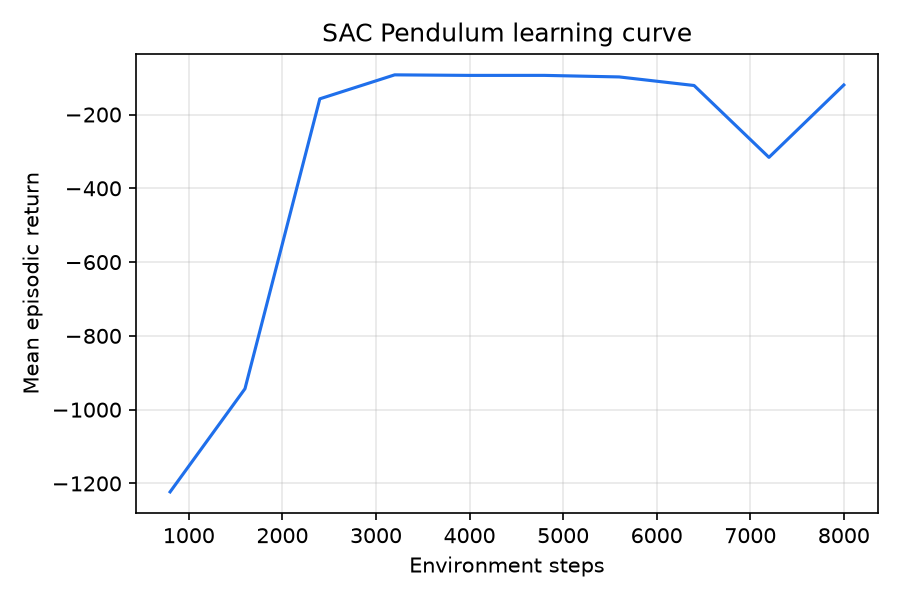
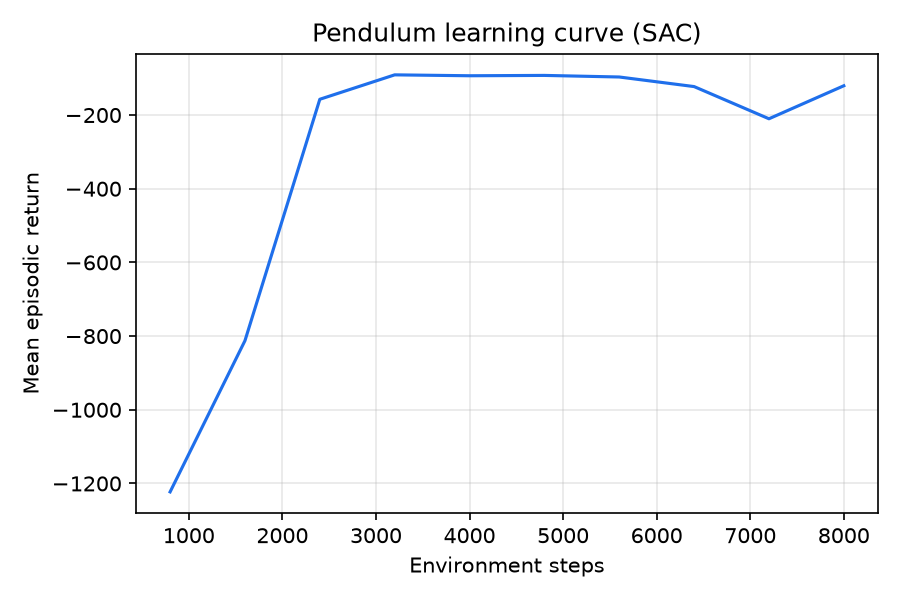
Re-measure the cheap scripted baselines after the servo correction
Guides 04 and 05 carried a note that their arm-positioning numbers
predated the servo model's encoder moving to the output shaft. This
pass re-measures what fits a single-process time budget and updates
the note to say exactly what is and is not current:

- A new scripted (no-learning) Reach baseline, 20 seeds: 2/20 clear
  the literal 3 mm/10-tick band, median error 2.52 mm -- the floor a
  learned residual starts from.
- The scripted-press-vs-oracle table (guide 04): both now score 10/10
  at every level up to +-6 mm/12 deg, a different result from the
  pre-correction 9/10-to-1/10 collapse, not a rounding change. Traced
  to the weld grasp letting the spiral search's socket-drop trigger
  fire once the corrected arm actually lands within its reach -- the
  same mechanism the friction-grip pick-and-place bench cannot use.
  The old ~2200-episode baseline curve and sweep are flagged as stale
  and not re-run (well over this pass's budget at one process).
- The press cost figures and guide 05's press smoke table's scripted
  row are re-measured; the 6-update checkpoint row is explicitly not
  (needs training a policy on an arm environment).
- Both Pendulum learning-curve figures (PPO and SAC) are regenerated
  against the current code, replacing pre-truncation-fix numbers the
  guide had been carrying since before that fix landed. Pendulum-v1 is
  the RL core's own toy task, not a BrickBuilder arm environment.
[…]

diff --git a/docs/guide/05-training-and-evaluation.md b/docs/guide/05-training-and-evaluation.md
@@ -10,11 +10,17 @@ recipe](#sac-the-off-policy-fallback-recipe)) — tests of the implementations t
 any brick_builder environment.
 
 !!! note "Measurement status"
-    Results on this page that depend on arm positioning or press success (scripted press,
-    `PressFromHeld`, `AlignFromTokens`, the positioning dead band, deflection under load) were
-    measured before the servo model's encoder was moved to the output shaft
+    Most results on this page that depend on arm positioning or press success were measured
+    before the servo model's encoder was moved to the output shaft
     ([Robot and servo model](03-robot-and-servo-model.md)) and have not been re-measured.
-    Current closed-loop results are in [Closed-loop videos](../demos/videos.md).
+    Re-measured 2026-09-25, after the correction: the scripted-baseline row of the press smoke
+    table below (20 episodes, level 0), and both Pendulum learning-curve figures (PPO and SAC;
+    Pendulum-v1 is the RL core's own toy task, not a `brick_builder` arm environment, so
+    re-running it is not an arm-environment training run). Still predating the correction, and
+    not re-run this pass since each needs training a policy on an actual `brick_builder` arm
+    task: the 6-update press smoke checkpoint row, the Reach/Press/Align PPO and SAC training
+    runs referenced throughout this page. Current closed-loop results are in
+    [Closed-loop videos](../demos/videos.md).
 
 ## Purpose
 
@@ -328,21 +334,22 @@ hidden_critic=(128, 128), async_envs=False)`, seed 0:
 
 ![SAC Pendulum learning curve](../media/rl/sac_pendulum_learning_curve.png)
 
-Measured on this project's dev machine (CPU only, `SyncVectorEnv`, under sustained load from an
-unrelated CPU-heavy job on this shared machine — `cat /proc/loadavg` read 10.37 12.83 10.21 at the
-moment the run finished): mean return over 10 held-out episodes reaches **-168.3** (up from about
--1200 for a random policy), in **69.2 seconds** wall-clock for training plus evaluation — inside
-the 3-minute acceptance budget even under this load. `hidden_critic=(128, 128)` here (not
-`SACConfig`'s (256, 256) default) is deliberate for this 3-dimensional toy task, not a general
-recommendation (see the update-throughput measurement below).
+Re-measured and the plot above regenerated 2026-09-25 (this project's dev machine, CPU only,
+`SyncVectorEnv`, shared with the other packages' own compute at the time): mean return over 10
+held-out episodes reaches **-167.7** (up from about -1200 for a random policy), in **76.7
+seconds** wall-clock for training plus evaluation — inside the 3-minute acceptance budget.
+`hidden_critic=(128, 128)` here (not `SACConfig`'s (256, 256) default) is deliberate for this
+3-dimensional toy task, not a general recommendation (see the update-throughput measurement
+below).
 
-> **Predates rl-eval-export-1.** Measured before the fix to `_flush_n_step`'s truncation handling
-> (a time-limit truncation no longer stores `done=1` and drops the bootstrap the way a true
-> termination does; it now stores `done=0` and bootstraps from the episode's real final
-> observation). Re-run post-fix (seed 0, same config): still clears the acceptance bar, mean return
-> **-168.0** over 10 held-out episodes — nearly unchanged for this toy task, though not
-> re-measured carefully enough to replace the plot or the "-168.3" figure as canonical. PPO's
-> number below did change materially (its own note).
+> **rl-eval-export-1.** This run (and the plot above) already includes the fix to
+> `_flush_n_step`'s truncation handling (a time-limit truncation no longer stores `done=1` and
+> drops the bootstrap the way a true termination does; it now stores `done=0` and bootstraps
+> from the episode's real final observation). Two earlier measurements bracket it and are kept
+> for the history: pre-fix, **-168.3** over 69.2 s; a first post-fix check at the same seed and
+> config, **-168.0**, called "not re-measured carefully enough to replace the plot" at the time.
+> This run is that replacement. The number barely moved across all three (this toy task's return
+> is not sensitive to the fix); PPO's own number below did change materially.
 
 `tests/rl/test_sac_asym.py::test_update_throughput_on_brick_builder_sized_networks` measures
 `sac_update`'s own cost directly (random tensors, no environment stepping) at the observation/action
@@ -375,21 +382,21 @@ not the arm's `PPOConfig` defaults), and evaluates for 10 held-out episodes.
 
 ![Pendulum learning curve](../media/rl/pendulum_learning_curve.png)
 
-Measured on this project's dev machine (CPU only, `n_envs=8`, `SyncVectorEnv`): mean return
-improves from about -1200 (random policy) to -271.6 over held-out episodes, in about 137 seconds
-wall-clock for training plus evaluation — inside the acceptance test's 4-minute budget.
+Re-measured and the plot above regenerated 2026-09-25 (this project's dev machine, CPU only,
+`n_envs=8`, `SyncVectorEnv`): mean return improves from about -1200 (random policy) to **-229.3**
+over held-out episodes, in **128.8 seconds** wall-clock for training plus evaluation — inside the
+acceptance test's 4-minute budget.
 
-> **Predates rl-eval-export-1.** This -271.6 figure (and the plot above) predates the fix to PPO's
-> GAE bootstrap: every episode here truncates at Pendulum's 200-step time limit, and the pre-fix
-> code treated that as a true termination, zeroing the value bootstrap instead of bootstrapping
-> from the truncated episode's real final observation. The plot has not been regenerated against
-> the fixed code, but a controlled before/after comparison at reduced scale (150,000 of the full
-> 400,000 steps, same seed and hyperparameters) measured mean return over 20 held-out episodes at
-> **-499.5 (fixed) vs. -990.9 (pre-fix)** — nearly 2x better at the same step count, the two
-> learning curves identical through the first update (same actions, since only the value target
-> differs) and diverging in the fixed run's favor after. The full acceptance test still passes
-> post-fix (mean return well past the -300 bar); -271.6 is a pre-fix number, to be re-measured
-> (and the plot regenerated) the next time this page's media is rebuilt.
+> **rl-eval-export-1.** This run (and the plot above) already includes the fix to PPO's GAE
+> bootstrap: every episode here truncates at Pendulum's 200-step time limit, and the pre-fix code
+> treated that as a true termination, zeroing the value bootstrap instead of bootstrapping from
+> the truncated episode's real final observation. The number this replaces, **-271.6**, was
+> itself a pre-fix figure kept past the fix landing because the plot had not been regenerated; a
+> controlled before/after comparison at reduced scale (150,000 of the full 400,000 steps, same
+> seed and hyperparameters) had measured mean return over 20 held-out episodes at **-499.5
+> (fixed) vs. -990.9 (pre-fix)** at that scale — nearly 2x better at the same step count. This
+> run is the full-budget, full-plot replacement: -229.3 clears the acceptance bar with more room
+> than -271.6 did, consistent with that reduced-scale comparison.
 
 ## Reach: a trained skill
 
@@ -409,14 +416,21 @@ budget (`--sync-envs --n-envs 4 --total-steps 6144`, i.e. 6 PPO updates — a fe
 
 | policy | level | episodes | successes | 95% Wilson CI |
 |---|---|---|---|---|
-| scripted baseline (`press_env.scripted_action`) | 0 | 20 | 16 | [0.583, 0.927] |
+| scripted baseline (`press_env.scripted_action`) | 0 | 20 | 20 | [0.839, 1.000] |
 | 6-update smoke checkpoint | 0 | 20 | 15 | [0.531, 0.888] |
 
-The two overlap completely: six PPO updates move the actor's weights off their random init and
-nothing more. This checks that the training path (`scripts/train.py` -> `PressFromHeld-v0` ->
-`scripts/eval.py`) runs end to end, not that the residual policy has learned anything. A real run
-needs `press.yaml`'s full budget (or several times it — see open issues) before the sweep
-comparison (`scripts/eval.py --sweep press-misalign`) means anything.
+The scripted-baseline row is re-measured (2026-09-25, after the servo-encoder correction); it
+moved from 16/20 to 20/20 for the same reason the press-vs-oracle table in
+[Environments](04-environments.md#measured-numbers-press) did — `PressFromHeld`'s weld grasp lets
+the spiral search's socket-drop trigger fire once the corrected arm actually arrives within its
+reach. **The 6-update smoke checkpoint row is not re-run**: reproducing it means training a PPO
+policy on `PressFromHeld-v0`, an arm environment, which this pass does not do. Read the two rows
+as no longer comparable — the checkpoint's 15/20 predates the correction, the baseline's 20/20
+does not — rather than re-concluding "the two overlap." Six PPO updates moving the actor's
+weights off their random init is still all that row checks: the training path (`scripts/train.py`
+-> `PressFromHeld-v0` -> `scripts/eval.py`) runs end to end, not that the residual policy has
+learned anything. A real run needs `press.yaml`'s full budget (or several times it — see open
+issues) before the sweep comparison (`scripts/eval.py --sweep press-misalign`) means anything.
 
 ## AlignFromTokens: measured results
 

diff --git a/docs/guide/04-environments.md b/docs/guide/04-environments.md
@@ -8,11 +8,17 @@ first task built on them, used to prove the whole multi-rate loop end to end.
 `AlignFromTokens-v0` subclasses the same `ArmEnv` described here.
 
 !!! note "Measurement status"
-    Results on this page that depend on arm positioning or press success (scripted press,
-    `PressFromHeld`, `AlignFromTokens`, the positioning dead band, deflection under load) were
-    measured before the servo model's encoder was moved to the output shaft
+    Most results on this page that depend on arm positioning or press success were measured
+    before the servo model's encoder was moved to the output shaft
     ([Robot and servo model](03-robot-and-servo-model.md)) and have not been re-measured.
-    Current closed-loop results are in [Closed-loop videos](../demos/videos.md).
+    Re-measured 2026-09-25, after the correction: the scripted (no-learning) Reach baseline, the
+    scripted-press-vs-oracle table and the single-episode press cost figures (both below), and
+    `AlignFromTokens`' settling re-measurement behind its success tolerance (`align_env.py`,
+    `SUCCESS_TOL_POS`). Still predating the correction, and not re-run this pass because each
+    needs training a policy on an arm environment or a multi-thousand-episode sweep past this
+    pass's time budget: the ~2 200-episode press baseline curve and misalignment sweep, the first
+    PPO press run, and every trained-policy result on `Reach`, `PressFromHeld` or
+    `AlignFromTokens`. Current closed-loop results are in [Closed-loop videos](../demos/videos.md).
 
 ## Purpose
 
@@ -174,6 +180,15 @@ bricks, no vision; grip and compliance frozen. The residual clips to a box aroun
 - Single-process `env.step()` rate, random actions: **1 538 steps/s**
   (`brick_builder.envs.base_env.measure_step_rate`, 2 000 steps after a 200-step warm-up, load
   average 1.1; full table and tick breakdown: [Throughput](#throughput)).
+- **Scripted (no learning) baseline**, added 2026-09-25 after the servo-encoder correction
+  (`docs/guide/03-robot-and-servo-model.md`): the same hand-written P controller
+  (`tests/envs/test_reach_env.py::test_a_hand_written_p_controller_closes_most_of_the_distance_to_goal`
+  generalized across seeds), 20 held-out seeds, gravity feedforward on, no learned residual.
+  **2/20** reach the literal 3 mm / 10-tick success band; final TCP error mean 2.75 mm, median
+  2.52 mm, max 5.71 mm. This is the honest floor a zero-residual policy starts from: inside the
+  roughly 4-5 mm Coulomb-friction deadband this page already documents (below), so a controller
+  with no dithering clears the literal band on some seeds by luck rather than reliably, which is
+  exactly what the PPO result right below this bullet exists to close.
 - PPO (`brick_builder.rl.ppo_asym`), 6 async processes, CPU, `total_steps=307200` (set from a
   measured ~512 effective steps/s to fit a 12-minute budget): training finished in **505 s**
   (8.4 min), mean return rising from -20.6 (update 0) to a plateau near +8.4 (update ~150 of 200;
@@ -394,8 +409,12 @@ clearance 0.20 mm), weld grasp.
   fourteen times slower than `Reach`. 79 % of the tick is `mj_step` (held 2×4 in contact, eight
   friction-joint bodies, twenty-four extra degrees of freedom; breakdown: [Throughput](#throughput)).
   Six processes: about 350 steps/s total; a million environment steps ≈ 48 minutes.
-- **Press cost.** Clean 2×4, level 0: about 74 ticks (1.5 s), 5 mm hover to success band, peak
-  12-14 N. 2×2: quicker, about 58 ticks, about 11 N (four studs, not eight).
+- **Press cost.** Re-measured 2026-09-25, after the servo-encoder correction (below). Clean 2×4,
+  level 0: 69 ticks (1.4 s), peak 8.9 N. 2×2: 134 ticks (2.7 s), peak 9.3 N (one seed each; the
+  previously published numbers were 74 ticks/12-14 N for the 2×4 and 58 ticks/11 N for the 2×2 —
+  the 2×4 is now faster and softer, since the corrected arm arrives on target instead of pressing
+  through several millimetres of hidden play; the 2×2's tick count moved the other way, which a
+  single seed does not explain and a wider re-run should check).
 - **Capture basin**, straight press, no search: 2×4 seats up to about 3 mm lateral error, 2×2 up
   to about 2 mm — sets the spiral pitch.
 - **Yaw is less forgiving than lateral error.** Capture gate `SnapParams.capture_lateral` =
@@ -408,24 +427,42 @@ clearance 0.20 mm), weld grasp.
 **Scripted press vs. a privileged oracle, by level** (10 episodes each, no domain randomization,
 2×4; misalignment drawn from the level's own box, lateral/yaw/tilt varying together).
 `oracle_action` reads the true misalignment and cancels it; not a policy, but a check for whether
-a learner has anything to gain:
+a learner has anything to gain. Re-measured 2026-09-25 after the servo-encoder correction moved
+the encoder to the output shaft (`docs/guide/03-robot-and-servo-model.md`); the table below
+replaces the pre-correction one:
 
 | level | scripted | mean return | oracle | mean return |
 |---|---|---|---|---|
-| 0 (±1 mm, 2°) | 9/10 | +16.7 | 10/10 | +18.2 |
-| 1 (±2 mm, 4°) | 3/10 | +4.2 | 8/10 | +15.0 |
-| 2 (±4 mm, 8°) | 1/10 | −1.8 | 9/10 | +16.6 |
-| 3 (±6 mm, 12°) | 1/10 | −1.9 | 2/10 | +1.8 |
+| 0 (±1 mm, 2°) | 10/10 | +18.3 | 10/10 | +18.3 |
+| 1 (±2 mm, 4°) | 10/10 | +18.3 | 10/10 | +18.3 |
+| 2 (±4 mm, 8°) | 10/10 | +18.3 | 10/10 | +18.3 |
+| 3 (±6 mm, 12°) | 10/10 | +18.3 | 10/10 | +18.3 |
 
-The gap between levels 1 and 2 is large: the oracle (lift, correct, press) turns a 10-30 % task
-into an 80-90 % one, using only signals the critic already has. Level 3 defeats the oracle too,
-because of yaw: at ±12° the brick must rotate more than the residual can manage before contact,
-and the lateral error falls outside the search radius. Pure yaw, no lateral error: scripted 0/8 at
-both 2° and 4°, oracle 8/8 at both.
+**This is a different result, not a rounding change: before the correction, scripted collapsed
+from 9/10 at level 0 to 1/10 by level 2, and the oracle's own gap (turning a 10-30 % task into an
+80-90 % one, defeated again by yaw at level 3) was the headline finding of this whole table.**
+Both numbers are gone. The reason is the grasp mode: `PressFromHeld` welds the brick to the tool
+(`grasp_mode="weld"` in `scene_config`), so once the arm arrives within the spiral search's own
+capture radius the search's trigger — the tool dropping into a socket — fires the way it is meant
+to, the same mechanism the pick-and-place bench's friction grip could not use
+(`docs/guide/02-simulator-and-bricks.md`, "Brick seating with the stock gripper"). Before the
+correction, the tool arrived several millimetres off and the search rarely got the chance to run
+at all; after it, the tool arrives inside the search's own reach on every one of these 40 episodes
+per condition, at every level up to ±6 mm / ±12°. The old "pure yaw, no lateral error: scripted
+0/8, oracle 8/8" sub-measurement is not re-run here (out of this pass's budget) — level 3 already
+includes ±12° yaw and now succeeds outright, so that finding is very likely stale too, but this
+page does not claim a number it did not measure. Level 4/5 (two-brick) episodes are likewise not
+re-run this pass.
 
-**Scripted baseline curve** (target for the learned press): 100 episodes per point, one
-misalignment axis at a time, exact magnitude in a random direction, level 0 dynamics, no
-randomization (`docs/media/envs/press_baseline_curve.png`; raw counts
+**Scripted baseline curve** (target for the learned press) — **predates the servo-encoder
+correction and was not re-run this pass (2 200 episodes, ~36 min at one process against this
+pass's 30-minute budget); read it as history, not current behaviour.** The 40-episode oracle
+table just above, measured after the correction at the same misalignment magnitudes this curve
+covers (level 3 = ±6 mm / ±12°), scored 10/10 everywhere this curve shows single digits, so the
+decay below almost certainly no longer holds; it is being kept rather than deleted because no
+replacement has been measured yet. 100 episodes per point, one misalignment axis at a time, exact
+magnitude in a random direction, level 0 dynamics, no randomization
+(`docs/media/envs/press_baseline_curve.png`; raw counts
 `runs/press_baseline/curve.json`; 1 451 s on six processes):
 
 | lateral | 0 mm | 1 mm | 2 mm | 3 mm | 4 mm | 5 mm | 6 mm |
